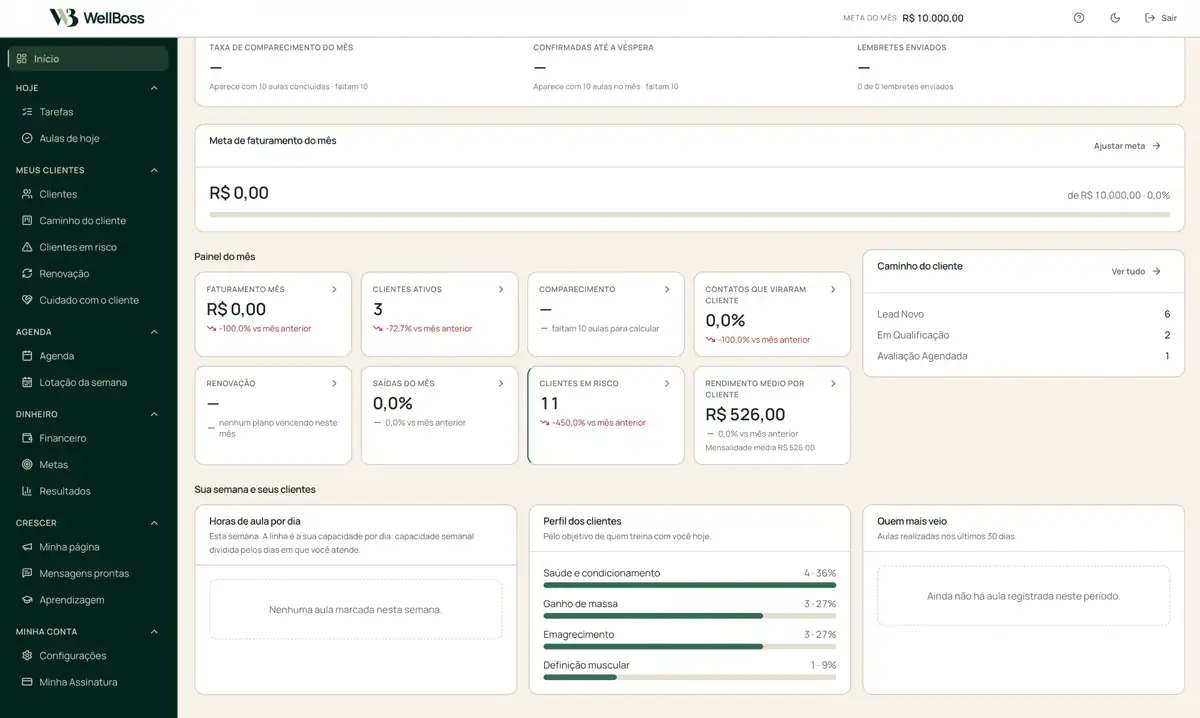
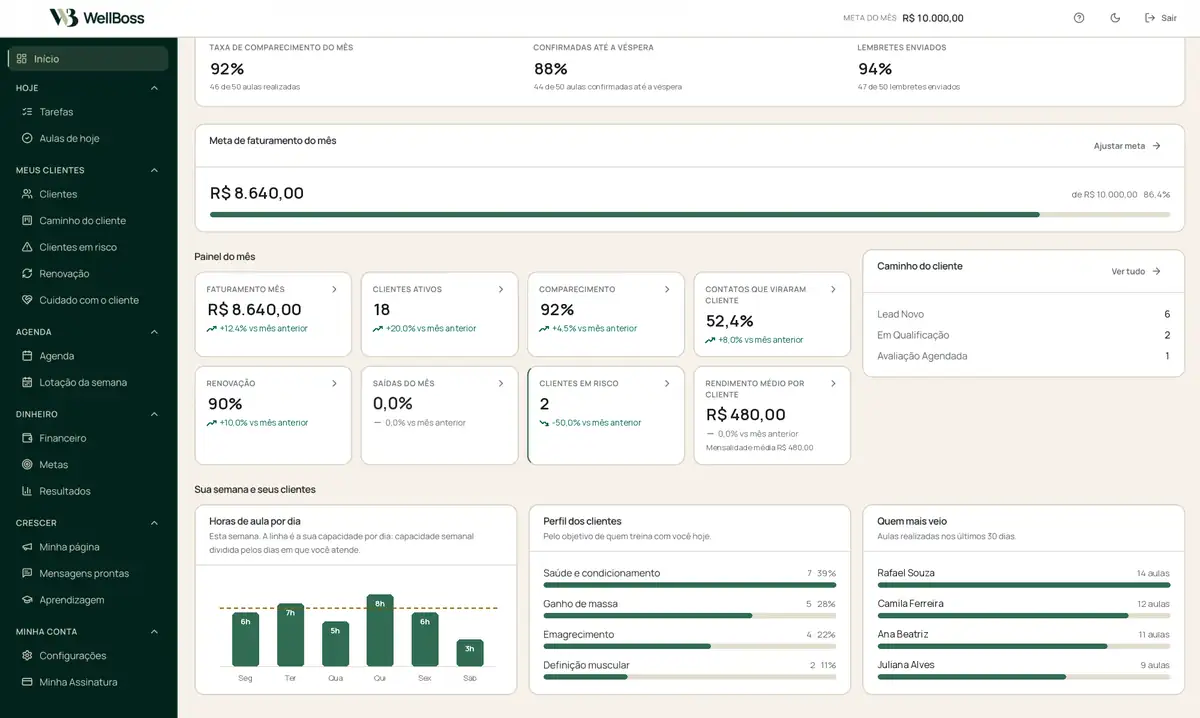
Capturas reais de Inicio, Clientes e Resultados com dados de demonstracao
Nome do usuario e acesso administrativo removidos; numeros e quadros vazios
preenchidos com dados ficticios para a vitrine.

Claude-Session: https://claude.ai/code/session_01XSrtX8oNVBrQLFA7zP5H5B

diff --git a/index.html b/index.html
@@ -463,17 +463,17 @@
               <div class="moldura__barra" aria-hidden="true"><i></i><i></i><i></i><span>WellBoss · Clientes</span></div>
               <div class="moldura__tela">
                 <div class="esqueleto" aria-hidden="true"><div class="esqueleto__menu"><b></b><b></b><b></b><b></b><b></b></div><div class="esqueleto__corpo"><b class="esqueleto__titulo"></b><div class="esqueleto__cards"><b></b><b></b><b></b></div><b class="esqueleto__painel"></b></div></div>
-                <img src="/assets/telas/clientes.webp" alt="Tela Clientes da WellBoss" width="1440" height="900" loading="lazy" onerror="this.remove()" />
+                <img src="/assets/telas/clientes.webp" alt="Tela Clientes da WellBoss, com status, risco e mensalidade" width="820" height="474" loading="lazy" onerror="this.remove()" />
               </div>
             </div>
             <figcaption>Organize informações importantes da rotina e dos clientes.</figcaption>
           </figure>
           <figure>
             <div class="moldura">
-              <div class="moldura__barra" aria-hidden="true"><i></i><i></i><i></i><span>WellBoss · Indicadores</span></div>
+              <div class="moldura__barra" aria-hidden="true"><i></i><i></i><i></i><span>WellBoss · Resultados</span></div>
               <div class="moldura__tela">
                 <div class="esqueleto" aria-hidden="true"><div class="esqueleto__menu"><b></b><b></b><b></b><b></b><b></b></div><div class="esqueleto__corpo"><b class="esqueleto__titulo"></b><div class="esqueleto__cards"><b></b><b></b><b></b></div><b class="esqueleto__painel"></b></div></div>
-                <img src="/assets/telas/indicadores.webp" alt="Tela Indicadores da WellBoss" width="1440" height="900" loading="lazy" onerror="this.remove()" />
+                <img src="/assets/telas/indicadores.webp" alt="Tela Resultados da WellBoss, com origem dos contatos e motivos de saída" width="820" height="494" loading="lazy" onerror="this.remove()" />
               </div>
             </div>
             <figcaption>Acompanhe os dados que ajudam você a decidir os próximos passos.</figcaption>
